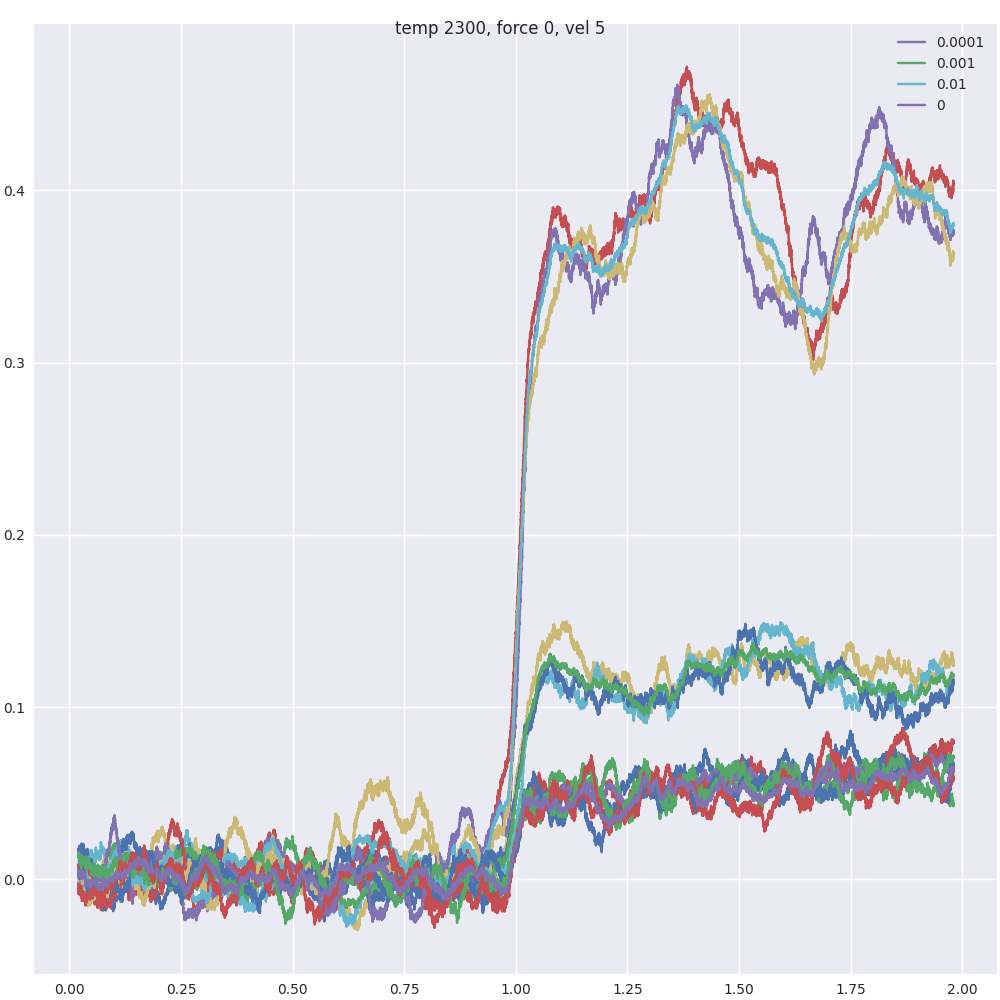
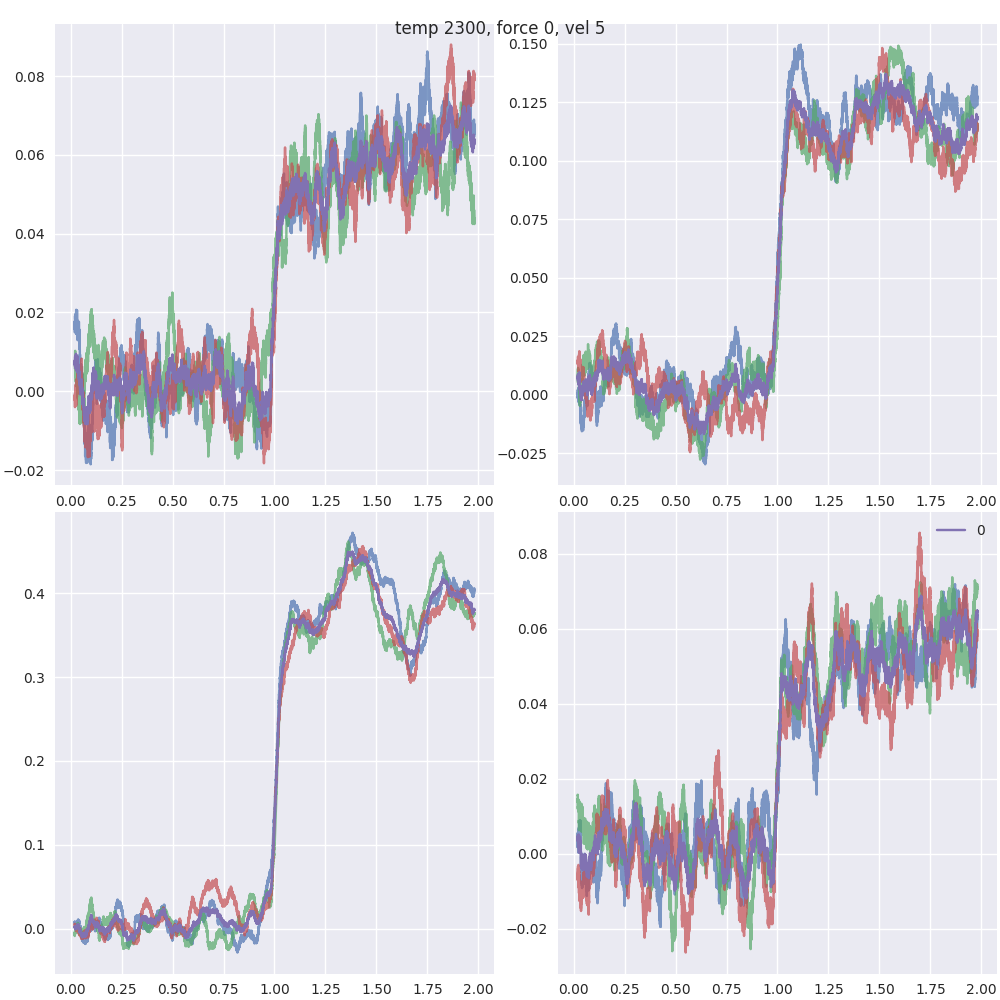
foursquare now

diff --git a/python/plot/plot_load_curves.py b/python/plot/plot_load_curves.py
@@ -503,14 +503,14 @@ def load_vs_normal_force():
     template_lc = load_curve_dir + 'load_curves_temp{}_vel{}_force{}_asp{}_or{}_seed{}_errgrid{}_{}.txt'
     template_ms = max_static_dir + 'max_static_temp{}_vel{}_force{}_asp{}_or{}_seed{}_errgrid{}_{}.txt'
     
-    foursquare = False
+    foursquare = True
 
     if foursquare:
-        fig, axs = plt.subplots(2,3, figsize = (10,10))
+        fig, axs = plt.subplots(2,2, figsize = (10,10))
     else:
         fig, axs = plt.subplots(1, figsize = (10,10))
     
-    #axs = axs.ravel()
+    axs = axs.ravel()
     #axs2 = []
     #for ax in axs:
     #    axs2.append(ax.twinx())
@@ -536,7 +536,7 @@ def load_vs_normal_force():
         #assert len(glob(heights_file)) == 1
         
         for curve in load_curves_all:
-            axs.plot(curve[:,0], curve[:,1])
+            axs[i].plot(curve[:,0], curve[:,1], alpha = 0.7)
         #height plot 
         
         #data = np.loadtxt(maxz_file)
@@ -566,7 +566,7 @@ def load_vs_normal_force():
         else:
             #axs[0].plot(disp_mean[0,:,0], disp_mean[0,:,1], label = f'force {force}')
             #axs[1].plot(disp_mean[0,:,0], disp_mean[0,:,1], label = f'force {force}')
-            axs.plot(load_curves_mean[0,:,0], load_curves_mean[0,:,1], label=f'{force}')
+            axs[i].plot(load_curves_mean[0,:,0], load_curves_mean[0,:,1], label=f'{force}')
             #axs[1].plot(timeframes, height)
     
     plt.suptitle(f"temp {temp}, force {force}, vel {vel}")
